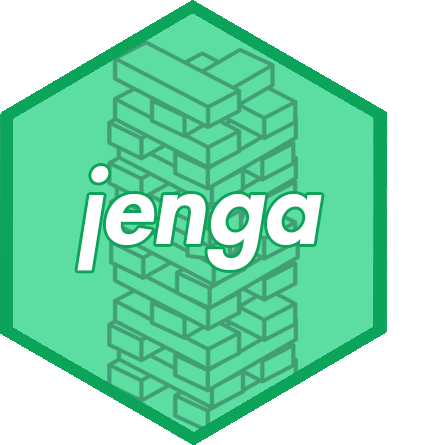
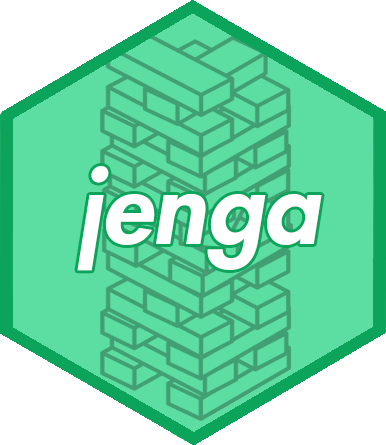
fix

diff --git a/README.md b/README.md
@@ -1,4 +1,4 @@
-jenga <img src="man/figures/jenga-1.png" align="right"  height="288" width="250"/>
+jenga <img src="man/figures/jenga-icon.png" align="right"  height="288" width="250"/>
 ======================================================
 
 Save .RData files in an efficient jenga stack.
